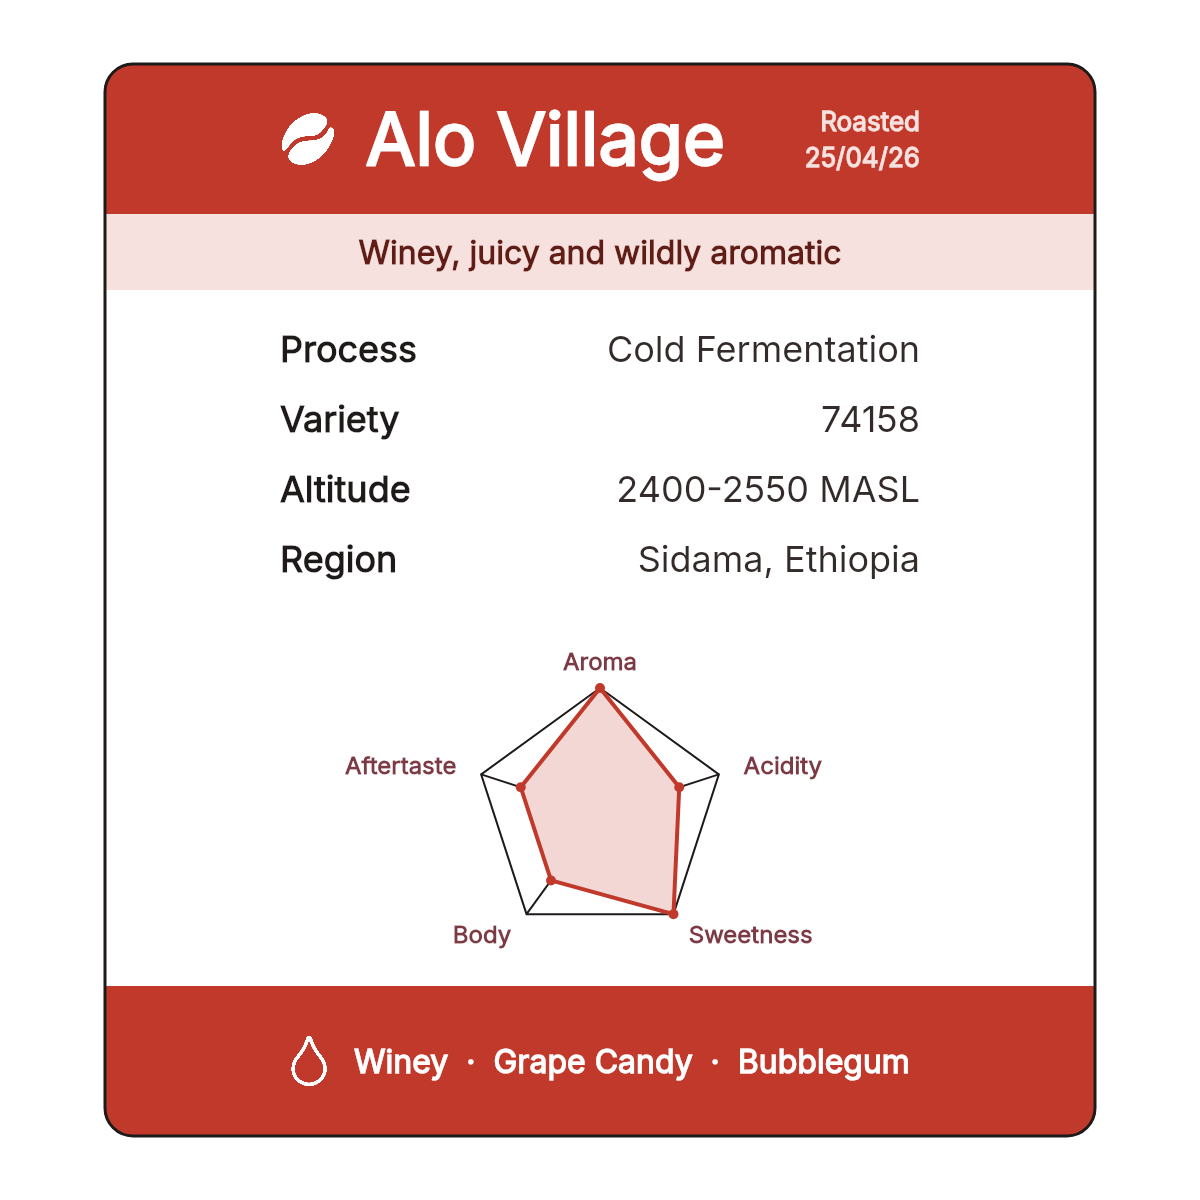
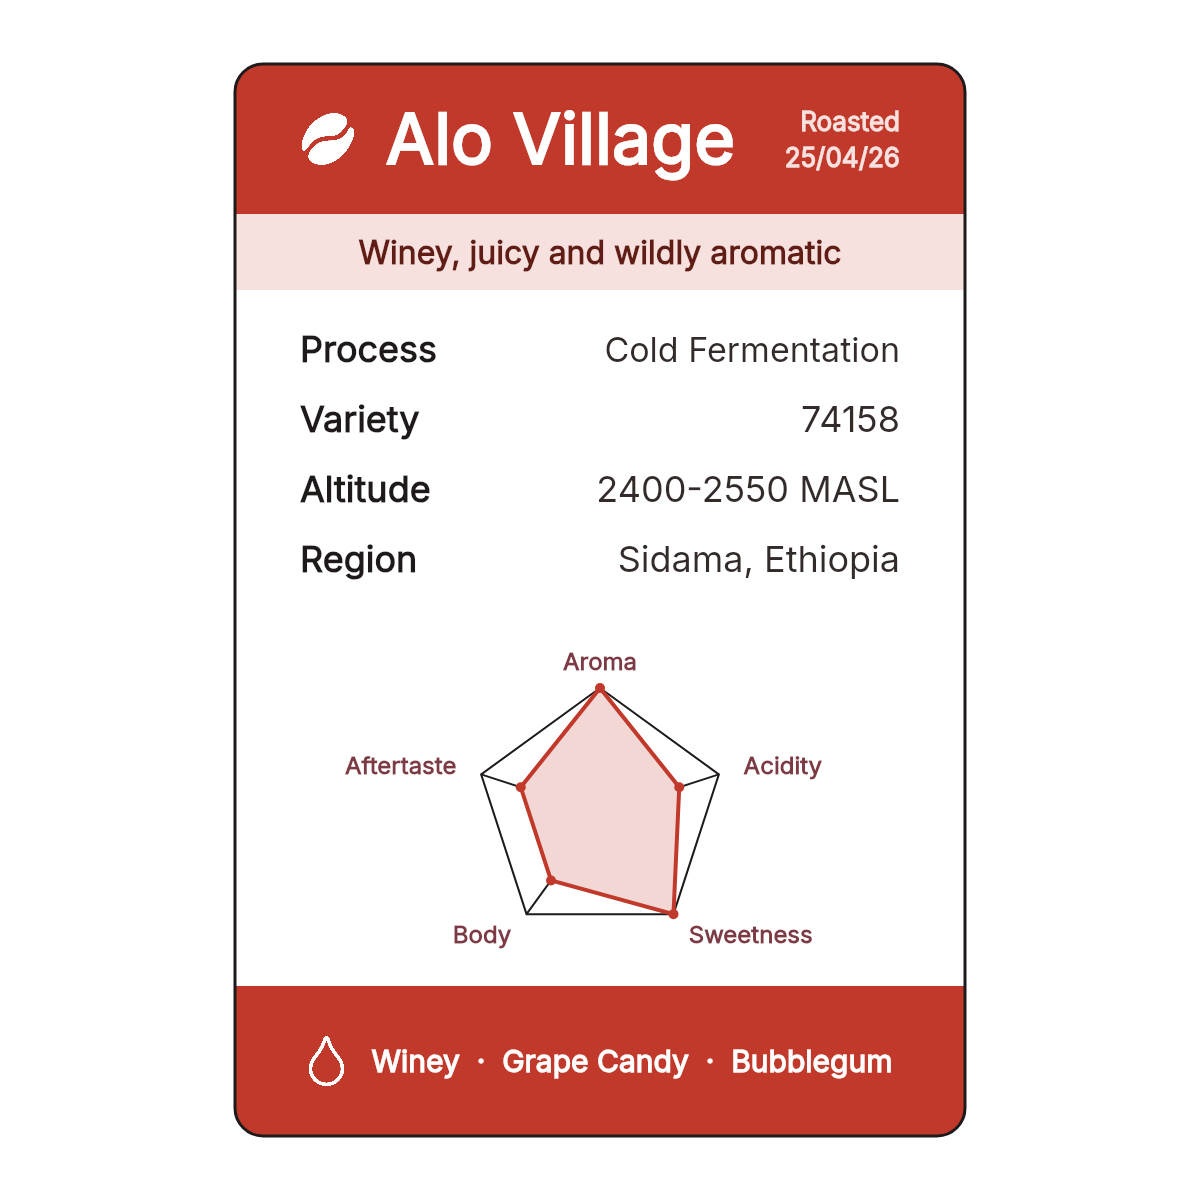
title

diff --git a/index.html b/index.html
@@ -5489,9 +5489,9 @@ fill="#6F4A36" stroke="none">
     var INK='#1E1A19',BERRY='#B25E6A';
     /* square card with asymmetric safe margins — Square Online portrait hero
        crops ~150px off each side, so sides get 150px margin, top/bottom 64px */
-    var CX=105,CY=64,CW=W-210,CH=H-128,CR=28;
+    var CX=235,CY=64,CW=W-470,CH=H-128,CR=28;
     /* text-safe zone: mobile portrait hero crops ~200px+ per side, so all text lives in the centre 760px */
-    var TSX=280,TEX=W-280,TW2=TEX-TSX;
+    var TSX=300,TEX=W-300,TW2=TEX-TSX;
     x.fillStyle='#ffffff';x.fillRect(0,0,W,H);
     var band=mnHexRgb(card.color)||[73,66,58];
     var lum=.299*band[0]+.587*band[1]+.114*band[2];